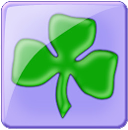
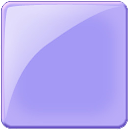
Lots of Quality of Life
- Changes timer to mins / seconds
- Timer tile now has functionality
- added dodgey background

diff --git a/Purble Place/purblepairs.html b/Purble Place/purblepairs.html
@@ -11,22 +11,24 @@
 
 <body>
 
-    <div style = "padding: 10px; color: aliceblue;">
+    <div style = "background-color: blue; padding: 50px; color: aliceblue;">
         <div>
             <label>Grid size:</label> <br>
             <input type="number" id="gridSize"></input>
         </div>
         <br>
         <button onclick="updateGrid();">Change size</button>
-    </div>
-
-    <div style="padding: 10px; color: aliceblue; font-size: 40pt;">
-        <label>Timer:</label>
-        <div id = "timer">
-            <b>Seconds</b>
+        <br><br><br><br><br><br>
+        <div style="padding: 10px; color: aliceblue; font-size: 40pt;">
+            <label>Timer:</label>
+            <div id = "timer">
+                <b></b>
+            </div>
         </div>
+    
     </div>
 
+    
     <section id="boardMain" class="memory-game">
     </section>
     <script>
@@ -62,8 +64,8 @@
 
                 console.log(currentCards);
 
-                board.innerHTML = board.innerHTML + ' <div class="memory-card" data-name="' + currentC + '"><img class="front-face" src="resources/cardfront-' + currentC + '.png" alt="' + currentC + '"><img class="back-face" src="resources/cardback-clover.png" alt="Memory Card"></div>';
-                board.innerHTML = board.innerHTML + ' <div class="memory-card" data-name="' + currentC + '"><img class="front-face" src="resources/cardfront-' + currentC + '.png" alt="' + currentC + '"><img class="back-face" src="resources/cardback-clover.png" alt="Memory Card"></div>';
+                board.innerHTML = board.innerHTML + ' <div id = "'+currentC+'"class="memory-card" data-name="' + currentC + '"><img class="front-face" src="resources/cardfront-' + currentC + '.png" alt="' + currentC + '"><img class="back-face" src="resources/cardback-clover.png" alt="Memory Card"></div>';
+                board.innerHTML = board.innerHTML + ' <div id = "'+currentC+'"class="memory-card" data-name="' + currentC + '"><img class="front-face" src="resources/cardfront-' + currentC + '.png" alt="' + currentC + '"><img class="back-face" src="resources/cardback-clover.png" alt="Memory Card"></div>';
             }
         }
         generateBoard();

diff --git a/Purble Place/purblepairs.js b/Purble Place/purblepairs.js
@@ -3,7 +3,6 @@ const cards = document.querySelectorAll('.memory-card');
 let hasFlippedCard = false;
 let lockBoard = false;
 let firstCard, secondCard;
-let clock = "";
 let time = (35*size);
 
 let matched = 0;
@@ -49,10 +48,22 @@ function checkForMatch() {
 
 function disableCards() {
 
-    //console.log(firstCard.id);
-    //document.getElementById(firstCard.id).src = "resources/cardback-nothing";
-    console.log(firstCard);
-    console.log(clock);
+    firstCard.classList.remove('flip');
+    secondCard.classList.remove('flip');
+
+    firstCard.children[1].src = "resources/cardback-nothing.png";
+    secondCard.children[1].src = "resources/cardback-nothing.png";
+
+    console.log(firstCard.children[0]);
+   
+    let clock = document.getElementById("clock");
+    console.log(firstCard.children[1]);
+
+    if(clock == firstCard)
+    {
+        time = time + 50;
+    }
+
     if(firstCard == clock)
     {
         time = time + 50;
@@ -64,6 +75,7 @@ function disableCards() {
     }
     firstCard.removeEventListener('click', flipCard);
     secondCard.removeEventListener('click', flipCard);
+ 
     resetBoard();
 }
 
@@ -85,7 +97,7 @@ function resetBoard() {
 }
 
 (function shuffle() {
-    cards.forEach(card => {
+    cards.forEach(card => { 
         let ramdomPos = Math.ceil(Math.random() * (24));
         card.style.order = ramdomPos;
     });
@@ -100,7 +112,14 @@ if( time > 0)
     
 
 time = time - 1;
-document.getElementById("timer").innerHTML = "<b>" + time + " Seconds" + "</b>";
+let writtenTime = "";
+if(time >= 60)
+{
+    writtenTime = Math.floor(time/60)+":"+(time - (Math.floor(time/60)*60) < 10 ? "0" + (time - (Math.floor(time/60)*60))  : time - (Math.floor(time/60)*60));
+}
+else{writtenTime = "0:"+time; document.getElementById("timer").style.color = "red";}
+
+document.getElementById("timer").innerHTML = "<b>" + writtenTime + "</b>";
 }
 else
 {

diff --git a/Purble Place/purble.css b/Purble Place/purble.css
@@ -9,6 +9,7 @@
     width: 100%;
     display: flex;
     background: #3d30d7;
+    background-image: url("resources/backgrounds/purblepairs.png");
   }
   
   .memory-game {
